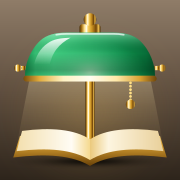
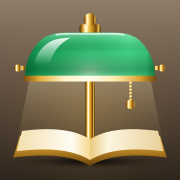
BF-19: Lampenglas rechts heller

Changed region(s): [[0.5556, 0.1667, 0.8611, 0.4444], [0.1667, 0.1944, 0.3611, 0.4167]]

diff --git a/frontend/src/lib/schale/Logo.svelte b/frontend/src/lib/schale/Logo.svelte
@@ -1,6 +1,6 @@
 <!-- Das Zeichen der App, wie symbole/tab.svg -->
 <svg aria-hidden="true" viewBox="0 0 64 64">
-<defs><linearGradient id="zeichen-s" x1="0" y1="0" x2="1" y2="1"><stop offset="0" stop-color="#5fe3a0"/><stop offset=".5" stop-color="#1dae61"/><stop offset="1" stop-color="#077039"/></linearGradient><linearGradient id="zeichen-b" x1="0" y1="0" x2="1" y2="0"><stop offset="0" stop-color="#ffe9b4"/><stop offset=".5" stop-color="#fffdf6"/><stop offset="1" stop-color="#ffe9b4"/></linearGradient><linearGradient id="zeichen-m" x1="0" y1="0" x2="1" y2="0"><stop offset="0" stop-color="#b87a12"/><stop offset=".4" stop-color="#ffe694"/><stop offset="1" stop-color="#d1931f"/></linearGradient></defs>
+<defs><linearGradient id="zeichen-s" x1="1" y1="0" x2="0" y2="1"><stop offset="0" stop-color="#5fe3a0"/><stop offset=".5" stop-color="#1dae61"/><stop offset="1" stop-color="#077039"/></linearGradient><linearGradient id="zeichen-b" x1="0" y1="0" x2="1" y2="0"><stop offset="0" stop-color="#ffe9b4"/><stop offset=".5" stop-color="#fffdf6"/><stop offset="1" stop-color="#ffe9b4"/></linearGradient><linearGradient id="zeichen-m" x1="0" y1="0" x2="1" y2="0"><stop offset="0" stop-color="#b87a12"/><stop offset=".4" stop-color="#ffe694"/><stop offset="1" stop-color="#d1931f"/></linearGradient></defs>
 <g stroke="#2a1d10" stroke-width="3.4" stroke-linejoin="round">
 <path d="M29 29H35V50H29Z" fill="url(#zeichen-m)"/>
 <path d="M27 4H37V11H27Z" fill="url(#zeichen-m)"/>
